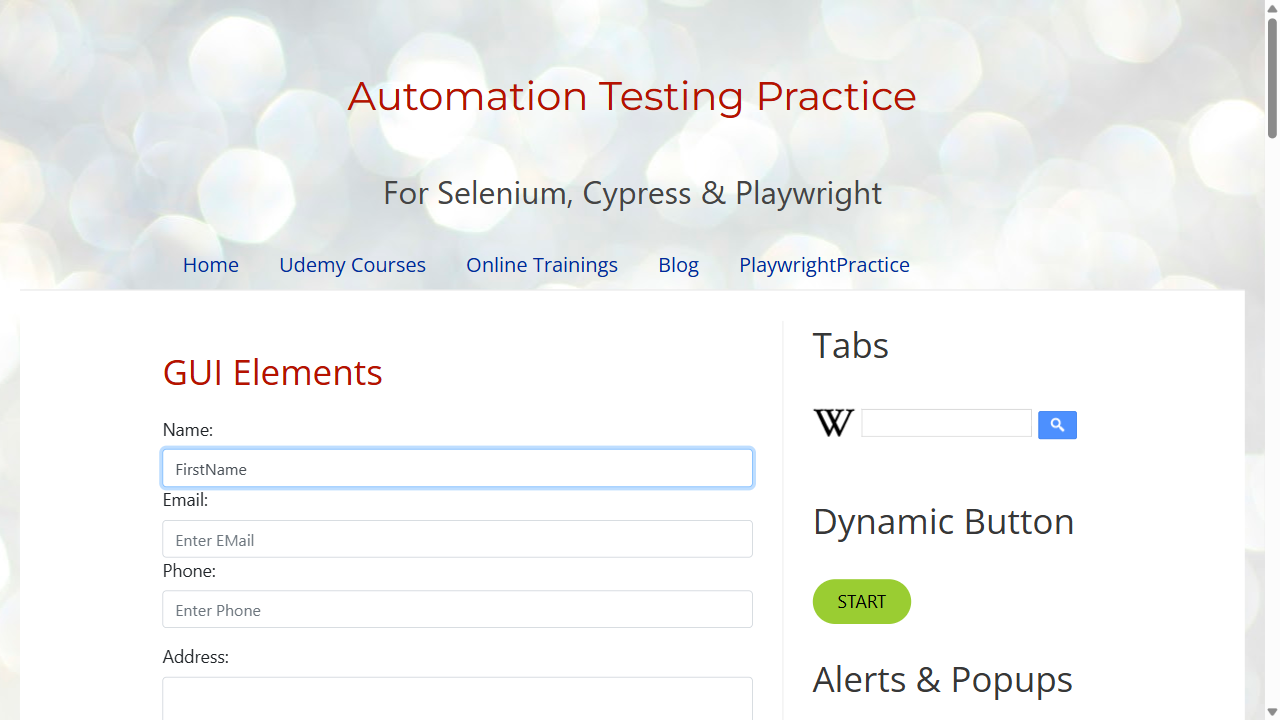
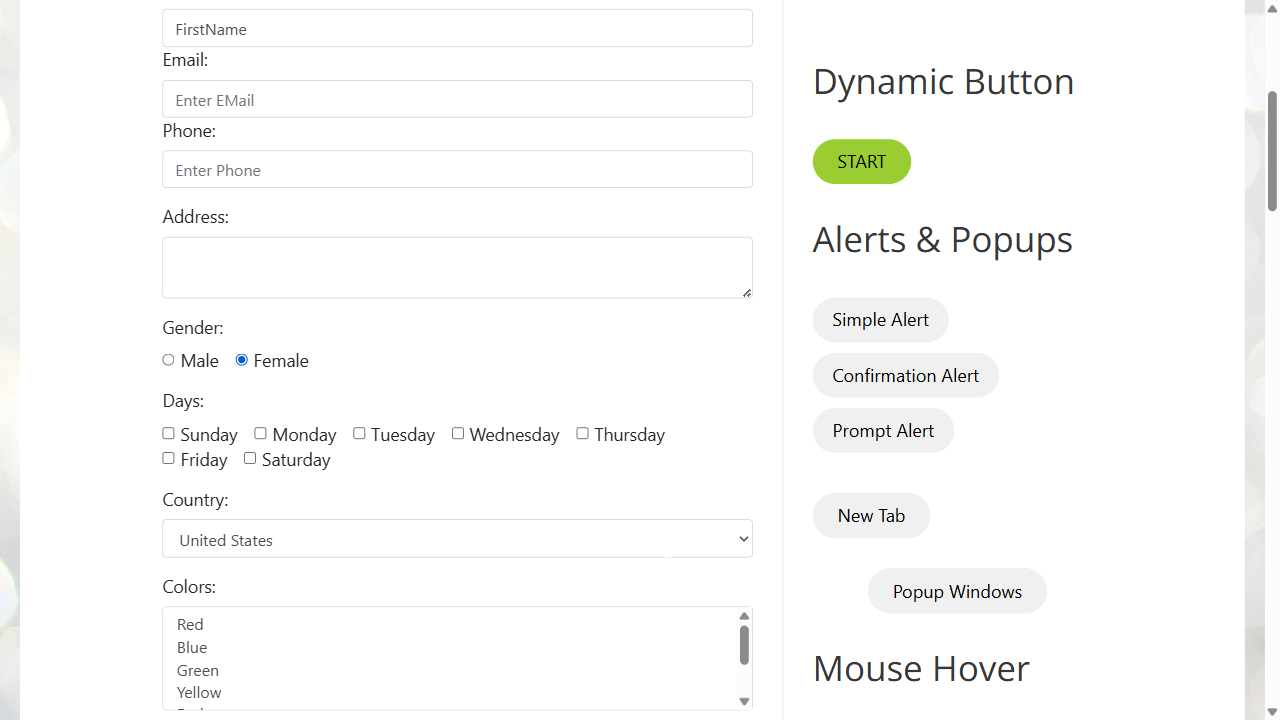
More basic validations

diff --git a/myPWTests/BasicTests.test.ts b/myPWTests/BasicTests.test.ts
@@ -1,7 +1,8 @@
 
-    import {test, expect, Locator, Browser, Page, BrowserContext} from '@playwright/test'
+    import {test, expect, Browser, BrowserContext, Page, Locator, firefox } from '@playwright/test'
     import { chromium } from '@playwright/test'
-import path from 'path';
+import { link } from 'fs';
+    import path from 'path';
 
 
     let browser : Browser;
@@ -20,20 +21,18 @@ import path from 'path';
     test.beforeEach(async() => {
         browserContext = await browser.newContext();
         page = await browserContext.newPage();
+        page.setDefaultTimeout(35000);
+        await page.goto('https://testautomationpractice.blogspot.com/');
     });
 
     test.afterEach(async() => {
-        await browserContext.close();
         await page.close();
+        await browserContext.close();
     });
 
     test.describe('Whole Application Tests', () =>{
 
     test('Enter details into text boxes', async() => {
-
-        page.setDefaultTimeout(15000);
-
-        await page.goto('https://testautomationpractice.blogspot.com/');
 
         const nameTB : Locator = await page.getByPlaceholder("Enter Name");
         await nameTB.focus();
@@ -51,6 +50,7 @@ import path from 'path';
             await sleep(10000);
             await page.waitForTimeout(10000);
             const jhgh = async() => await page.locator("//input[@id='female']").click();
+            await jhgh();
             await page.screenshot({path: 'screenshot1.png'});
             // await clickRadio(element);
 
@@ -60,7 +60,7 @@ import path from 'path';
     //     async function clickRadio(element: string) {
 
     //     const genderRadioFemale : Locator = page.locator(element);
-    //     genderRadioFemale.click();
+    //     await genderRadioFemale.click();
     //     await page.screenshot({path: 'screenshot1.png'});
     // }    
 
@@ -70,10 +70,6 @@ import path from 'path';
 
 
     test('Select all multi select checkboxes', async() => {
-
-    page.setDefaultTimeout(15000);
-
-    await page.goto('https://testautomationpractice.blogspot.com/');
 
     const checkboxesContainer = page.locator('//div[@class="form-group"][4]');
     const checkboxes = checkboxesContainer.locator('//div');
@@ -90,8 +86,6 @@ import path from 'path';
 
 
     test('Get all countries from dropdown', async() =>{
-
-        await page.goto('https://testautomationpractice.blogspot.com/');
 
         const countriesDropdown = page.locator('//select[@id="country"]');
         await countriesDropdown.scrollIntoViewIfNeeded();
@@ -112,8 +106,6 @@ import path from 'path';
 
     test('Upload files', async() => {
 
-        await page.goto('https://testautomationpractice.blogspot.com/');
-
         const uploadSingleFile = page.locator('//input[@id="singleFileInput"]');
         await uploadSingleFile.scrollIntoViewIfNeeded();
         uploadSingleFile.setInputFiles("D:/Downloaded/Austronaut in plasma suite.jpeg");
@@ -124,8 +116,6 @@ import path from 'path';
 
 
     test('Upload multiple files', async() => {
-
-        await page.goto('https://testautomationpractice.blogspot.com/');
 
         const uploadMultiFiles = page.locator('//input[@id="multipleFilesInput"]');
         uploadMultiFiles.scrollIntoViewIfNeeded();
@@ -139,8 +129,151 @@ import path from 'path';
     }); // End of test 5
 
 
+
+    test('Handle alerts', async() => {
+
+        const playwrightPracticeSection : Locator = page.getByRole('link', {name: 'PlaywrightPractice'});
+        await playwrightPracticeSection.click();
+
+        await expect(page.url()).toBe('https://testautomationpractice.blogspot.com/p/playwrightpractice.html');
+        await page.waitForTimeout(2000);
+
+        await expect(page.getByRole('heading', {name: 'PlaywrightPractice'})).toBeVisible();
+        await page.waitForTimeout(2000);
+
+        page.once('dialog', async(alert) =>{
+
+            console.log(alert.type());
+            await page.waitForTimeout(2000);
+            alert.dismiss();
+        });
+
+        await page.locator('//button[@id="alertBtn"]').click();
+
+        page.once('dialog', async(alert) =>{
+
+            console.log(alert.type());
+            await page.waitForTimeout(2000);
+            alert.accept();
+        });
+        
+        await page.locator('//button[@id="confirmBtn"]').click();
+
+        page.once('dialog', async(alert) =>{
+
+            console.log(alert.type());
+            await page.waitForTimeout(2000);
+            console.log(alert.message());
+            alert.accept('Shut up! I know');
+        });
+        
+        await page.locator('//button[@id="promptBtn"]').click();
+
+
+    });  // End of test 6
+
+
+    test('Handle new window and popup', async() => {
+
+        const playwrightPracticeSection : Locator = page.getByRole('link', {name: 'PlaywrightPractice'});
+        await playwrightPracticeSection.click();
+
+        const newTabButton = page.getByRole('button', {name: 'New Tab'});
+
+        
+        await newTabButton.click();
+        const newTab : Page = await page.waitForEvent('popup');
+        console.log('new tab url is : ' + newTab.url());
+        await newTab.screenshot({path:'./kjhkjh.png'});
+        newTab.close();
+
+        await page.waitForTimeout(10000);
+
+        const newPopupButton = page.getByRole('button', {name: 'Popup Windows'});
+        await newPopupButton.click();
+
+        const popupPage : Page = await page.waitForEvent('popup');
+        console.log('new popup window url is : ' + popupPage.url());
+        // await expect(popupPage.getByRole('heading', {name: 'Getting Started'})).toBeVisible();
+        await popupPage.screenshot({path:'./lmnopq.png'});
+        popupPage.close();
+        
+
+    }); // End of test 7
+
+
+    test('Drag and drops', async() => {
+
+        const playwrightPracticeSection : Locator = page.getByRole('link', {name: 'PlaywrightPractice'});
+        await playwrightPracticeSection.click();
+
+        await page.getByText('Drag me to my target').scrollIntoViewIfNeeded();
+        await page.waitForTimeout(10000);
+
+        await page.locator('#draggable').hover();
+        await page.mouse.down();
+        await page.locator('#droppable').hover();
+        await page.mouse.up();
+
+        // await page.dragAndDrop('#draggable', '#droppable');
+        await page.waitForTimeout(5000);
+
+    }); // End of test 8
+
+
+    test('Copy Paste', async() => {
+
+        const playwrightPracticeSection : Locator = page.getByRole('link', {name: 'PlaywrightPractice'});
+        await playwrightPracticeSection.click();
+
+        const text =  page.locator('//p[contains(text(),"Double click on button")]');
+        text.scrollIntoViewIfNeeded();
+        text.click({clickCount: 3});
+        await page.waitForTimeout(2000);
+        await page.keyboard.press('Control+c');
+        await page.waitForTimeout(2000);
+        const emailbox =  page.locator('xpath=//input[@type="email"]');
+        emailbox.scrollIntoViewIfNeeded();
+        await emailbox.focus();
+        await page.keyboard.press('Control+v');
+        await page.waitForTimeout(2000);
+    });
+
+
+    test('Static Table', async() => {
+
+        const playwrightPracticeSection : Locator = page.getByRole('link', {name: 'PlaywrightPractice'});
+        await playwrightPracticeSection.click();
+
+        const staticTable = page.locator('//table[@name="BookTable"]');
+        await staticTable.scrollIntoViewIfNeeded();
+        const rows = staticTable.locator('//tr');
+        const rowCount = await staticTable.locator('//tr').count();
+        console.log('Number of rows : ' + rowCount);
+
+        for(let i=0; i<rowCount; i++){
+            console.log((await rows.nth(i).innerText()).toString());
+        }
+
+        const columnsHeaders = rows.locator('//th');
+        console.log('Number of columns : ' + (await columnsHeaders.count()).toString());
+
+        const columnData = rows.locator('//td');
+        const columnDataCount = await columnData.count();
+
+        for(let i=0; i<columnDataCount;i++){
+
+            const colValue = await columnData.nth(i).innerText();
+            if(colValue == '3000'){
+                const expensiveCourse = await columnData.nth(i-1).innerText();
+                console.log('Course having the price 3000 is : ' + expensiveCourse.toString());
+            }
+        }
+
+    });
+    
+
+
     }); // end of test description
 
-    function something(){
-        
-    }
+    
